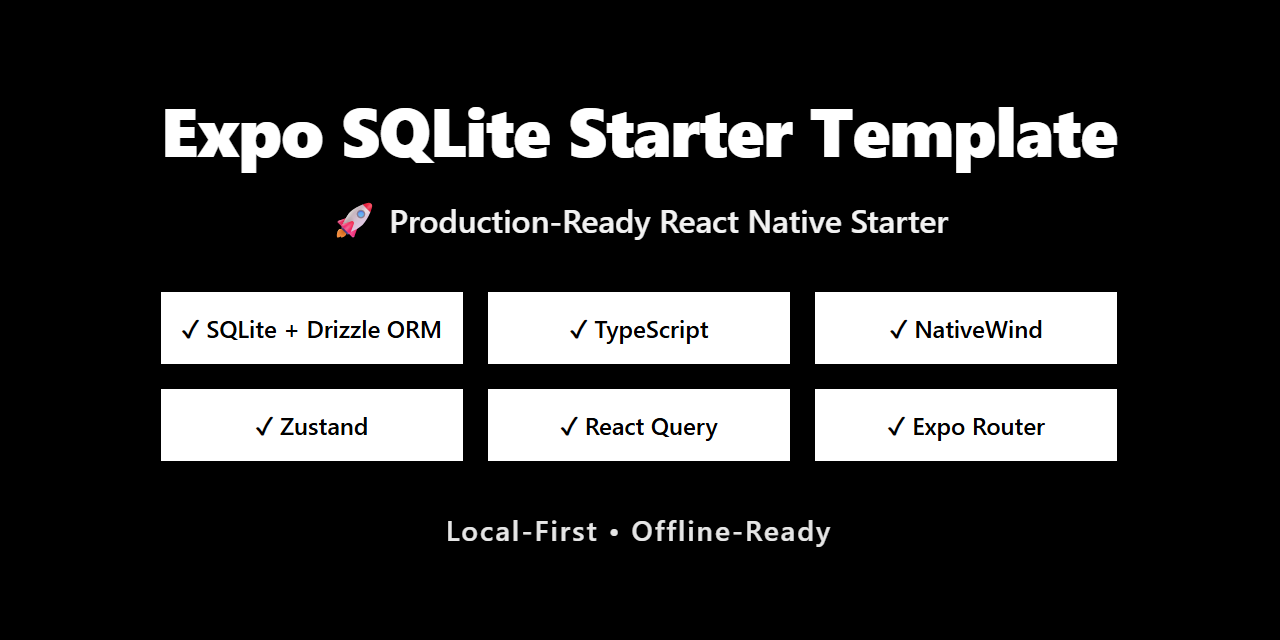
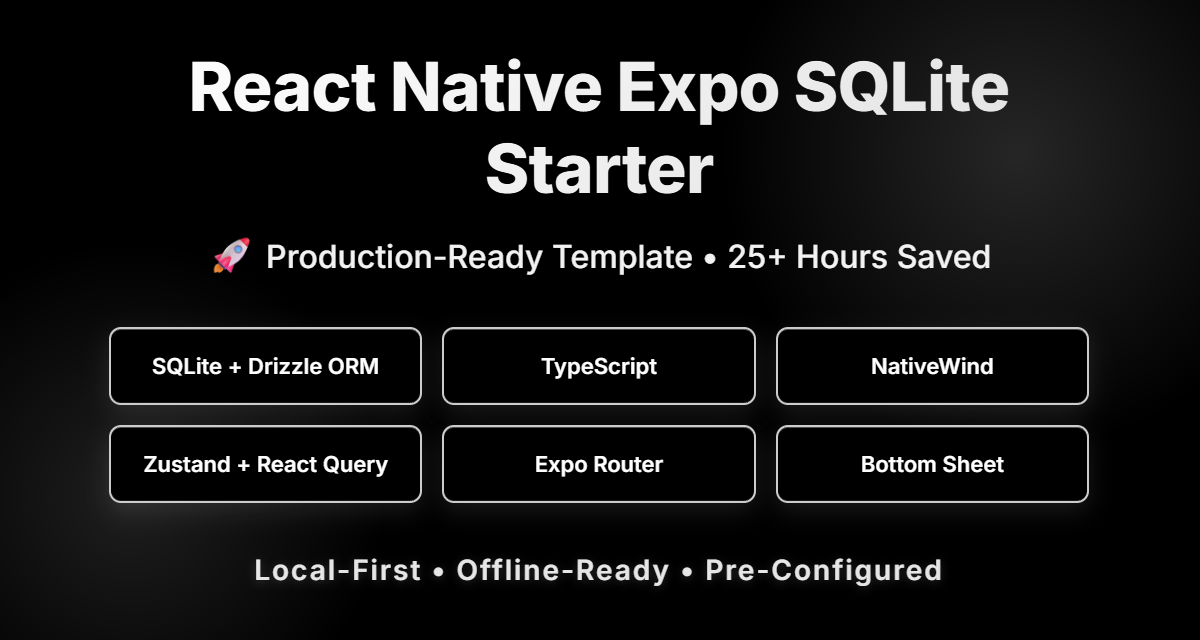
Feat/bottom sheet (#3)
* chore: Revise README for clarity and conciseness, update tech stack descriptions, and streamline project setup instructions

* chore: Rename project to 'expo-sqlite-starter' in app.json, package.json, and README, and update related configurations

* chore: Add social preview image to README and enhance contribution guidelines

* chore: Remove redundant line from README structure for improved clarity

* chore: Integrate Gorhom Bottom Sheet component and update README to reflect new features

* feat: Add key libraries section to CongratulationsSheet for improved feature visibility

* feat: Add screenshots to README for enhanced visual representation of the app

diff --git a/components/congratulationsSheet.tsx b/components/congratulationsSheet.tsx
@@ -1,0 +1,142 @@
+import BottomSheet, {
+  BottomSheetBackdrop,
+  BottomSheetView,
+} from "@gorhom/bottom-sheet";
+import { forwardRef, useCallback, useState } from "react";
+import { Dimensions, LayoutChangeEvent, Text, View } from "react-native";
+
+const { height: windowHeight } = Dimensions.get("window");
+
+const CongratulationsSheet = forwardRef<BottomSheet>((_props, ref) => {
+  const [bottomInset, setBottomInset] = useState(0);
+
+  const handleContentLayout = useCallback(
+    ({ nativeEvent: { layout } }: LayoutChangeEvent) => {
+      setBottomInset((windowHeight - layout.height) / 2);
+    },
+    [],
+  );
+
+  const renderBackdrop = useCallback(
+    (props: any) => (
+      <BottomSheetBackdrop
+        {...props}
+        disappearsOnIndex={-1}
+        appearsOnIndex={0}
+        opacity={0.5}
+      />
+    ),
+    [],
+  );
+
+  return (
+    <BottomSheet
+      ref={ref}
+      index={-1}
+      enablePanDownToClose
+      backgroundStyle={{ backgroundColor: "#000000" }}
+      backdropComponent={renderBackdrop}
+      enableDynamicSizing={true}
+      detached={true}
+      style={{ marginHorizontal: 24, alignSelf: "center" }}
+      bottomInset={bottomInset}
+      enableContentPanningGesture={false}
+    >
+      <BottomSheetView
+        onLayout={handleContentLayout}
+        className="items-center px-6 py-6"
+      >
+        <Text className="mb-4 text-6xl">🚀</Text>
+        <Text className="mb-4 text-center text-3xl font-bold text-white">
+          All Set
+        </Text>
+        <Text className="mb-8 text-center text-lg text-gray-300">
+          25+ hours of configuration already done for you.
+        </Text>
+
+        <View className="w-full rounded-lg bg-white p-6">
+          <View className="mb-4 flex-row items-center justify-between">
+            <Text className="text-base font-semibold text-gray-700">
+              Initial Setup
+            </Text>
+            <Text className="text-base font-bold text-gray-900">8-12 hrs</Text>
+          </View>
+
+          <View className="mb-4 flex-row items-center justify-between">
+            <Text className="text-base font-semibold text-gray-700">
+              Testing & Linting Setup
+            </Text>
+            <Text className="text-base font-bold text-gray-900">4-6 hrs</Text>
+          </View>
+
+          <View className="mb-4 flex-row items-center justify-between">
+            <Text className="text-base font-semibold text-gray-700">
+              Project Structure
+            </Text>
+            <Text className="text-base font-bold text-gray-900">3-5 hrs</Text>
+          </View>
+
+          <View className="mb-4 flex-row items-center justify-between">
+            <Text className="text-base font-semibold text-gray-700">
+              Configuration Debugging
+            </Text>
+            <Text className="text-base font-bold text-gray-900">5-10 hrs</Text>
+          </View>
+
+          <View className="border-t border-gray-300 pt-4">
+            <View className="flex-row items-center justify-between">
+              <Text className="text-xl font-bold text-gray-900">
+                Total Saved
+              </Text>
+              <Text className="text-2xl font-bold text-green-600">
+                ~25 hours
+              </Text>
+            </View>
+          </View>
+        </View>
+
+        <Text className="mt-6 text-center text-sm text-gray-400">
+          Start building features immediately instead of configuration
+        </Text>
+
+        <View className="mt-6 w-full">
+          <Text className="mb-3 text-center text-sm font-semibold text-gray-400">
+            KEY LIBRARIES INCLUDED
+          </Text>
+          <View className="flex-row flex-wrap justify-center gap-2">
+            <View className="rounded-full bg-gray-800 px-3 py-1.5">
+              <Text className="text-xs font-medium text-white">
+                SQLite + Drizzle
+              </Text>
+            </View>
+            <View className="rounded-full bg-gray-800 px-3 py-1.5">
+              <Text className="text-xs font-medium text-white">TypeScript</Text>
+            </View>
+            <View className="rounded-full bg-gray-800 px-3 py-1.5">
+              <Text className="text-xs font-medium text-white">NativeWind</Text>
+            </View>
+            <View className="rounded-full bg-gray-800 px-3 py-1.5">
+              <Text className="text-xs font-medium text-white">
+                Zustand + React Query
+              </Text>
+            </View>
+            <View className="rounded-full bg-gray-800 px-3 py-1.5">
+              <Text className="text-xs font-medium text-white">
+                Expo Router
+              </Text>
+            </View>
+            <View className="rounded-full bg-gray-800 px-3 py-1.5">
+              <Text className="text-xs font-medium text-white">
+                Bottom Sheet
+              </Text>
+            </View>
+          </View>
+        </View>
+      </BottomSheetView>
+    </BottomSheet>
+  );
+});
+
+CongratulationsSheet.displayName = "CongratulationsSheet";
+
+export default CongratulationsSheet;

diff --git a/app/_layout.tsx b/app/_layout.tsx
@@ -2,6 +2,7 @@ import { Stack } from "expo-router";
 import { SQLiteProvider } from "expo-sqlite";
 import { Suspense } from "react";
 import { ActivityIndicator, Text, View } from "react-native";
+import { GestureHandlerRootView } from "react-native-gesture-handler";
 import { SafeAreaProvider } from "react-native-safe-area-context";
 import { DATABASE_NAME, useDatabaseMigrations, useStudio } from "../db/client";
 import "../global.css";
@@ -30,18 +31,20 @@ export default function RootLayout() {
     );
   }
   return (
-    <QueryProvider>
-      <Suspense fallback={<ActivityIndicator size="large" />}>
-        <SQLiteProvider
-          databaseName={DATABASE_NAME}
-          options={{ enableChangeListener: true }}
-          useSuspense
-        >
-          <SafeAreaProvider>
-            <Stack screenOptions={{ headerShown: false }} />
-          </SafeAreaProvider>
-        </SQLiteProvider>
-      </Suspense>
-    </QueryProvider>
+    <GestureHandlerRootView style={{ flex: 1 }}>
+      <QueryProvider>
+        <Suspense fallback={<ActivityIndicator size="large" />}>
+          <SQLiteProvider
+            databaseName={DATABASE_NAME}
+            options={{ enableChangeListener: true }}
+            useSuspense
+          >
+            <SafeAreaProvider>
+              <Stack screenOptions={{ headerShown: false }} />
+            </SafeAreaProvider>
+          </SQLiteProvider>
+        </Suspense>
+      </QueryProvider>
+    </GestureHandlerRootView>
   );
 }

diff --git a/app/index.tsx b/app/index.tsx
@@ -1,17 +1,37 @@
-import { Text, View } from "react-native";
+import BottomSheet from "@gorhom/bottom-sheet";
+import { useRef } from "react";
+import { Pressable, Text, View } from "react-native";
 import { SafeAreaView } from "react-native-safe-area-context";
+import CongratulationsSheet from "../components/congratulationsSheet";
 
 export default function HomeScreen() {
+  const bottomSheetRef = useRef<BottomSheet>(null);
+
+  const handleOpenSheet = () => {
+    bottomSheetRef.current?.expand();
+  };
+
   return (
     <SafeAreaView className="flex-1 bg-white">
       <View className="flex-1 items-center justify-center px-4">
         <Text className="mb-4 text-3xl font-bold text-gray-900">
           Welcome to Your App
         </Text>
-        <Text className="text-center text-base text-gray-600">
+        <Text className="mb-8 text-center text-base text-gray-600">
           Start building your amazing React Native application
         </Text>
+
+        <Pressable
+          onPress={handleOpenSheet}
+          className="rounded-lg bg-black px-8 py-4"
+        >
+          <Text className="text-base font-semibold text-white">
+            See Time Saved 🎉
+          </Text>
+        </Pressable>
       </View>
+
+      <CongratulationsSheet ref={bottomSheetRef} />
     </SafeAreaView>
   );
 }

diff --git a/README.md b/README.md
@@ -1,8 +1,15 @@
-# Expo SQLite Starter Template
+# React Native Expo SQLite Starter Template
 
 ![Expo SQLite Starter Template Banner](./assets/social-preview.png)
 
-A production-ready React Native starter template powered by Expo with SQLite database integration, featuring a modern tech stack with local-first data persistence, state management, testing, and code quality tools pre-configured.
+A production-ready React Native Expo starter template with SQLite database integration, featuring a modern tech stack with local-first data persistence, state management, testing, and code quality tools pre-configured.
+
+## Screenshots
+
+<div align="center">
+  <img src="./assets/Screenshot_1.png" alt="App Screenshot 1" width="300"/>
+  <img src="./assets/Screenshot_2.png" alt="App Screenshot 2" width="300"/>
+</div>
 
 ## Features
 
@@ -13,6 +20,7 @@ A production-ready React Native starter template powered by Expo with SQLite dat
 - **Drizzle ORM** - Type-safe database toolkit with SQLite
 - **Zustand** - Lightweight state management
 - **React Query** - Powerful data fetching and caching
+- **Gorhom Bottom Sheet** - Performant bottom sheet component
 - **Jest & Testing Library** - Comprehensive testing setup
 - **ESLint & Prettier** - Code quality and formatting
 - **Husky & lint-staged** - Pre-commit hooks for code quality
@@ -30,6 +38,9 @@ A production-ready React Native starter template powered by Expo with SQLite dat
 
 - [Expo Router](https://docs.expo.dev/router/introduction/) - File-based routing
 - [NativeWind](https://www.nativewind.dev/) - Tailwind CSS for React Native
+- [Gorhom Bottom Sheet](https://gorhom.dev/react-native-bottom-sheet/) - Performant bottom sheet modals
+- [React Native Reanimated](https://docs.swmansion.com/react-native-reanimated/) - Smooth animations
+- [React Native Gesture Handler](https://docs.swmansion.com/react-native-gesture-handler/) - Touch gestures
 - [React Native Safe Area Context](https://github.com/th3rdwave/react-native-safe-area-context) - Safe area handling
 
 ### Database
